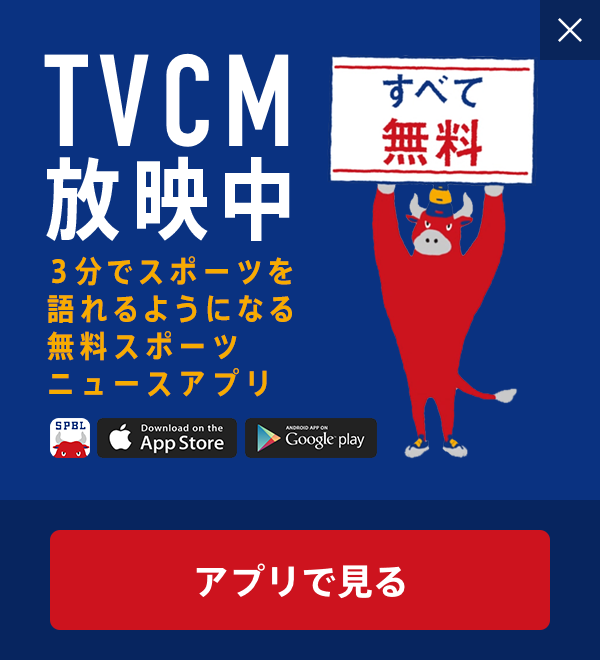
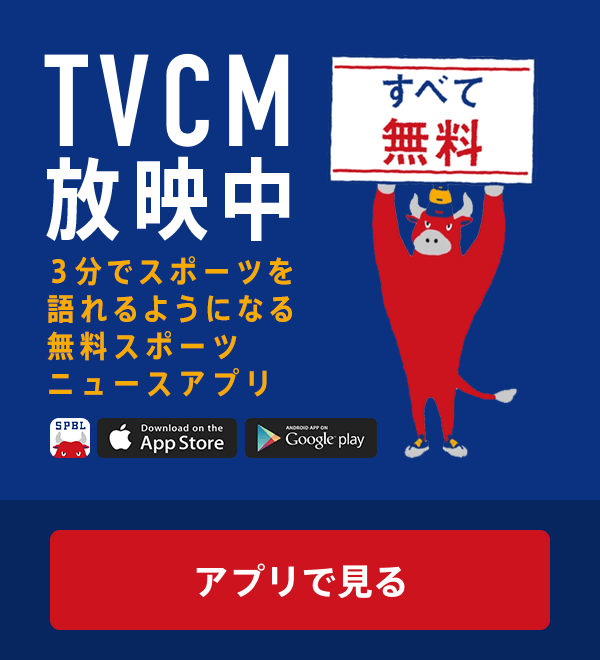
静的HMTL #2404

Changed region(s): [[0.9, 0.0, 1.0, 0.0909]]

diff --git a/_src/app/index_sp.html b/_src/app/index_sp.html
@@ -5,7 +5,6 @@
   <script src="/assets/js/libs/sagen/sagen.min.js" id="sagen" data-browser="true"></script>
   <meta name="viewport" content="width=device-width, initial-scale=1, user-scalable=0">
   <title>[pagetitle] | SPORTS BULL</title>
-  <meta name="apple-itunes-app" content="app-id=1086719653">
   <meta name="description" content="説明文">
   <meta name="keywords" content="キーワード, キーワード, キーワード">
   <!-- sns ogp -->
@@ -604,6 +603,30 @@
     </ul><!-- /.btn-block -->
   </div><!-- /.modal-dialogue-contents -->
 </div><!-- /.modal-dialogue -->
+
+<div class="modal-intro">
+  <div class="modal-bg"></div>
+  <div class="modal-intro-contents">
+    <div class="modal-intro-link">
+      <!-- 確認用 <img src="/assets/sp/images/dummy/bnr-modal-app.png" alt=""> -->
+      <!-- /531683568/download-popup/download-popup-mobile -->
+      <script>
+        googletag.cmd.push(function() {
+          googletag.defineSlot('/531683568/download-popup/download-popup-mobile', [300, 330], 'div-gpt-ad-1505887822751-0').addService(googletag.pubads());
+          googletag.pubads().enableSingleRequest();
+          googletag.enableServices();
+        });
+      </script>
+      <div id='div-gpt-ad-1505887822751-0' style='height:330px; width:300px;'>
+      <script>
+      googletag.cmd.push(function() { googletag.display('div-gpt-ad-1505887822751-0'); });
+      </script>
+      </div>
+      <!-- // /531683568/download-popup/download-popup-mobile -->
+    </div><!-- /.modal-intro-link -->
+    <div class="modal-intro-close"><a class="modal-intro-close-btn" href="#">閉じる</a></div>
+  </div><!-- /.modal-intro-contents -->
+</div><!-- /.modal-intro -->
 
 <script>
   window.fbAsyncInit = function() {

diff --git a/_src/app/assets/sp/css/module/_general.scss b/_src/app/assets/sp/css/module/_general.scss
@@ -699,46 +699,44 @@
 // 初回起動時のサービス紹介
 .modal-intro {
   @extend %modal-dialogue;
-  position: absolute;
 
   .modal-bg {
     background-color: rgba(0, 0, 0, .8);
   }
 
-  .modal-intro-contents {
-    position: relative;
-    padding-bottom: (80/2)+px;
-    background: url(/assets/sp/images/intro/bg.png) center 0 no-repeat;
-    background-size: 100%;
+  //.modal-intro-contents
+  &-contents {
+    position: absolute;
+    top: 50%;
+    left: 50%;
+    transform: translateY(-50%) translateX(-50%);
+    // width: perCalc(600, 750);
+    width: (600/2)+px;
   }
 
-  .modal-intro-tagline,
-  .modal-intro-heading,
-  .modal-intro-copy {
+  //.modal-intro-link
+  &-link {
     img {
-      width: 100%;
+      max-width: 100%;
     }
   }
 
-  .modal-intro-tagline {}
-
-  .modal-intro-heading {
-    margin: (36/2)+px 0 0 perCalc(30);
-    width: perCalc(300);
+  //.modal-intro-close
+  &-close {
+    z-index: 999;
+    position: absolute;
+    top: 0;
+    right: 0;
   }
 
-  .modal-intro-copy {
-    margin: (40/2)+px 0 0 perCalc(30);
-    width: perCalc(580);
-  }
-
-  .mod-btnB01 {
-    width: perCalc(540);
-    margin: (50/2)+px auto 0;
-
-    a {
-      width: 100%;
-    }
+  //.modal-intro-close-btn
+  &-close-btn {
+    display: block;
+    width: (60/2)+px;
+    height: (60/2)+px;
+    background: url(/assets/sp/images/intro/btn-close.png) 0 0 no-repeat;
+    background-size: (60/2)+px;
+    @include hide-text;
   }
 }
 

diff --git a/_src/app/index.html b/_src/app/index.html
@@ -635,9 +635,27 @@
 
 <div class="modal-intro">
   <div class="modal-bg"></div>
-
-</div>
-
+  <div class="modal-intro-contents">
+    <div class="modal-intro-link">
+      <!-- 確認用 <img src="/assets/images/dummy/bnr-modal-app.png" alt=""> -->
+      <!-- /531683568/download-popup/download-popup-desktop -->
+      <script>
+        googletag.cmd.push(function() {
+          googletag.defineSlot('/531683568/download-popup/download-popup-desktop', [580, 280], 'div-gpt-ad-1505887740744-0').addService(googletag.pubads());
+          googletag.pubads().enableSingleRequest();
+          googletag.enableServices();
+        });
+      </script>
+      <div id='div-gpt-ad-1505887740744-0' style='height:280px; width:580px;'>
+      <script>
+      googletag.cmd.push(function() { googletag.display('div-gpt-ad-1505887740744-0'); });
+      </script>
+      </div>
+      <!-- // /531683568/download-popup/download-popup-desktop -->
+    </div><!-- /.modal-intro-link -->
+    <div class="modal-intro-close"><a class="modal-intro-close-btn" href="#">閉じる</a></div>
+  </div><!-- /.modal-intro-contents -->
+</div><!-- /.modal-intro -->
 
 <script src="/assets/js/bundle/main.bundle.js"></script>
 <script>

diff --git a/_src/app/assets/css/module/_general.scss b/_src/app/assets/css/module/_general.scss
@@ -617,23 +617,39 @@
 // 初回起動時のサービス紹介
 .modal-intro {
   @extend %modal-dialogue;
-  position: absolute;
 
   .modal-bg {
     background-color: rgba(0, 0, 0, .7);
   }
 
-  .modal-intro-contents {
+  //.modal-intro-contents
+  &-contents {
     position: absolute;
     top: 50%;
     left: 50%;
     transform: translateY(-50%) translateX(-50%);
-    width: 750px;
-    height: 943px;
   }
 
+  //.modal-intro-close
+  &-close {
+    z-index: 999;
+    position: absolute;
+    top: 0;
+    right: 0;
+  }
 
+  //.modal-intro-close-btn
+  &-close-btn {
+    display: block;
+    width: 28px;
+    height: 28px;
+    background: url(/assets/images/intro/btn-close.png) 0 0 no-repeat;
+    @include hide-text;
 
+    &:hover {
+      @include over-opacity;
+    }
+  }
 }
 
 
